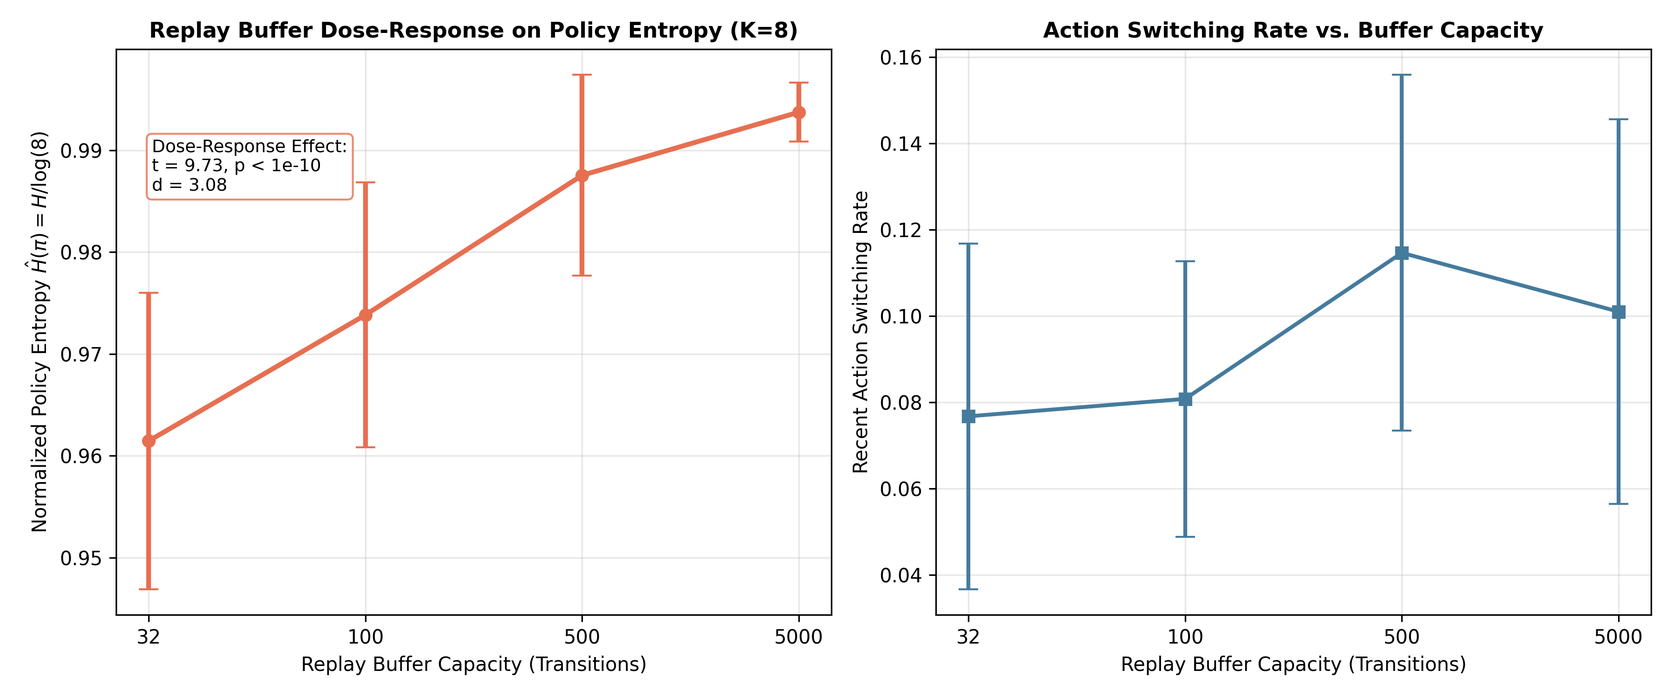
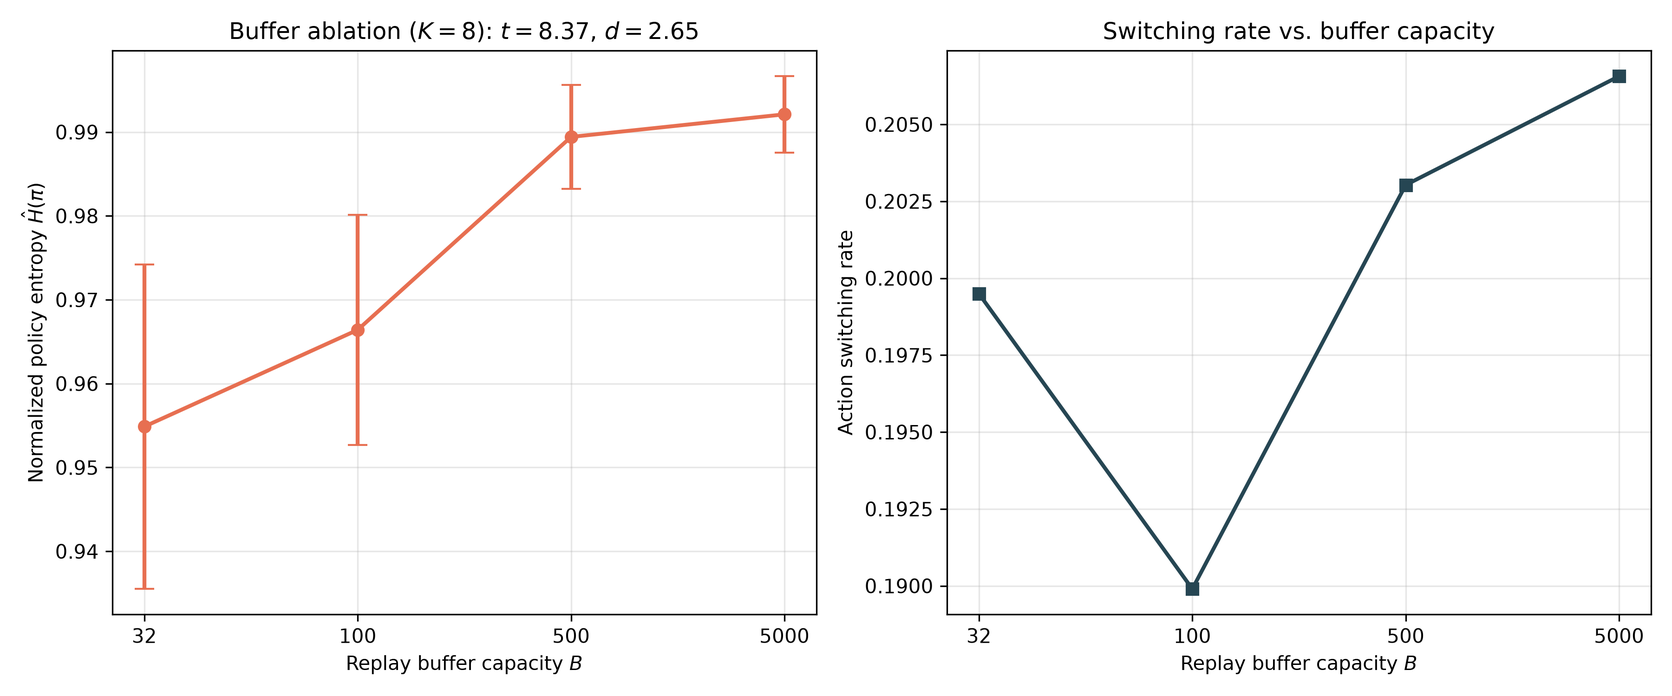
DQN: verify against torch 2.14, fix seed count, add plots + run_all wiring; honest reframe
Verification (torch 2.14.0, N=20): choice-overload H_norm ~0.99 reproduces; buffer
ablation reproduces qualitatively (t=8.37, p=3.7e-10, d=2.65 vs paper's version-
specific 9.73/3.08); cognitive dissonance does NOT reproduce as ~0 -- it is a small
but genuine +0.11 (both arms preserved near 5.0: Q_chosen~4.98, Q_rejected~4.93),
an ~88% attenuation vs tabular +0.92, not elimination.

Code:
- exp_dqn_replication.py: dissonance now uses N=20 (was 15, inconsistent with the
  paper's 'N=20 all experiments'); add generate_dqn_plots() producing the three
  DQN figures the paper references (previously orphaned); regenerate results.
- exp_impostor_handicap.py: restore run_experiment_4_2 (accidentally dropped when the
  Exp 3 runners block was replaced; this had broken every run_all.py invocation).
- run_all.py: add DQN phase so 'python run_all.py' runs the full pipeline (torch
  imported lazily); renumber cross-analysis to Phase 5.
- README.md: replace missing compile_paper.py references with the pdflatex path.

Paper (paper.tex): reframe DQN dissonance from 'eliminated entirely (-0.004)' to
'strongly attenuated (+0.11, ~88%) with unchosen values preserved near their true
mean'; update buffer-ablation stats; drop the weight-decay claim (code uses none);
fix repro command to run_all.py; add a note that exact DQN magnitudes are
PyTorch-version-dependent while tabular results are bit-reproducible.

Claude-Session: https://claude.ai/code/session_01NRJyUYQCszH2hBx1Gy8SiG

diff --git a/latex/paper.tex b/latex/paper.tex
@@ -34,7 +34,7 @@
 Reinforcement learning (RL) and behavioral psychology have always been known to be closely related, but the phenomena that show up during the post-decision and self-evaluative phases have not gotten as much attention from the mechanistic RL perspective.
 In this work we investigate if four well-recognized human psychological biases, namely Cognitive Dissonance, Impostor Syndrome, Self-Handicapping, and Choice Overload, can emerge in artificial RL agents without manually placing the bias into the reward function, differentiating between “Free” biases that arise spontaneously and standard learning dynamics and “Architectural” biases that require explicit metacognitive structure.
 
-Across multi-seed evaluations, three out of four biases emerge robustly while the fourth marks an informative computational boundary. Standard Q-learning agents develop post-decision value divergence on ground-truth identical alternatives that scales monotonically with memory decay, ruling out the revealed-preference confound. Agents using the human-verified asymmetric confidence-update rule develop a persistent calibration gap absent in symmetric controls. Expanding near-tied action spaces collapses normalized policy entropy, indicating that choice paralysis manifests as exploration dilution rather than uniform indecision. Both this effect and cognitive dissonance share a common substrate in action-visitation staleness. By contrast, self-handicapping emerges only when agents anticipate failure from a miscalibrated self-model: objectively competent agents then sabotage their own reward to protect a fragile self-image, an effect bounded by the objective cost of the handicap. In Deep Q-Networks, lossless experience replay eliminates memory decay and suppresses cognitive dissonance entirely, with a parametric replay-buffer ablation confirming this causal link.
+Across multi-seed evaluations, three out of four biases emerge robustly while the fourth marks an informative computational boundary. Standard Q-learning agents develop post-decision value divergence on ground-truth identical alternatives that scales monotonically with memory decay, ruling out the revealed-preference confound. Agents using the human-verified asymmetric confidence-update rule develop a persistent calibration gap absent in symmetric controls. Expanding near-tied action spaces collapses normalized policy entropy, indicating that choice paralysis manifests as exploration dilution rather than uniform indecision. Both this effect and cognitive dissonance share a common substrate in action-visitation staleness. By contrast, self-handicapping emerges only when agents anticipate failure from a miscalibrated self-model: objectively competent agents then sabotage their own reward to protect a fragile self-image, an effect bounded by the objective cost of the handicap. In Deep Q-Networks, lossless experience replay preserves unchosen-arm values and strongly attenuates cognitive dissonance ($\approx88\%$ vs.\ tabular), with a parametric replay-buffer ablation confirming this causal link.
 
 These findings offer a mechanistic account of how human-like cognitive distortions can emerge from the statistical mechanics of reinforcement learning, while establishing precise boundary conditions on when and why such biases do and do not dominate.
 \end{abstract}
@@ -45,7 +45,7 @@ Reinforcement learning (RL) provides the normative framework for how an agent op
 
 These domains are characterized by four pervasive human phenomena: \textbf{Cognitive Dissonance}---post-choice re-evaluation of chosen alternatives upward and rejected alternatives downward \citep{brehm1956postdecision,festinger1957theory}, though critics argue this can be a statistical artifact of revealed pre-existing preferences \citep{chen2010choice}; \textbf{Impostor Syndrome}---persistent underconfidence driven by asymmetric insensitivity to positive metacognitive signals \citep{clance1978imposter,katyal2025distorted}; \textbf{Self-Handicapping}---adopting objectively performance-impeding obstacles to furnish external excuses for failure \citep{berglas1978drug}; and \textbf{Choice Overload}---decision paralysis under excessive near-tied options \citep{iyengar2000choice,schwartz2004paradox}.
 
-We ask whether RL agents, without explicitly engineered biases, exhibit behavioral signatures analogous to these phenomena, and what learning-dynamics mechanisms generate each. We do not claim artificial agents experience subjective emotion or motivational tension; we seek to isolate the computational substrate of structurally identical behavioral and representational trajectories. Our contributions are: (1) a taxonomy of \textbf{Free} (dynamics-driven, no reward modification) vs.\ \textbf{Architectural} (metacognitive, requiring dual-tier structure) biases; (2) a mechanistic decomposition of cognitive dissonance via asymmetric sampling under memory decay, directly ruling out the \citet{chen2010choice} revealed-preference confound using ground-truth-identical alternatives; (3) computational validation of the \citet{katyal2025distorted} underconfidence rule; (4) a demonstration that impostor-like over-anticipation of failure causally drives objectively unjustified self-handicapping, bounded by the objective cost; (5) formalization of choice overload as exploration dilution, distinct from uniform indecision; (6) a unified action-visitation-staleness mechanism underlying both Free biases; and (7) DQN replication isolating memory substrates as mandatory causal drivers.
+We ask whether RL agents, without explicitly engineered biases, exhibit behavioral signatures analogous to these phenomena, and what learning-dynamics mechanisms generate each. We do not claim artificial agents experience subjective emotion or motivational tension; we seek to isolate the computational substrate of structurally identical behavioral and representational trajectories. Our contributions are: (1) a taxonomy of \textbf{Free} (dynamics-driven, no reward modification) vs.\ \textbf{Architectural} (metacognitive, requiring dual-tier structure) biases; (2) a mechanistic decomposition of cognitive dissonance via asymmetric sampling under memory decay, directly ruling out the \citet{chen2010choice} revealed-preference confound using ground-truth-identical alternatives; (3) computational validation of the \citet{katyal2025distorted} underconfidence rule; (4) a demonstration that impostor-like over-anticipation of failure causally drives objectively unjustified self-handicapping, bounded by the objective cost; (5) formalization of choice overload as exploration dilution, distinct from uniform indecision; (6) a unified action-visitation-staleness mechanism underlying both Free biases; and (7) DQN replication isolating memory decay as the dominant amplifier of post-decision spreading.
 
 \section{Background and Framework}
 
@@ -212,7 +212,7 @@ Both Cognitive Dissonance and Choice Overload share a single mathematical root. 
 
 \subsection{Human Benchmark Comparison}
 
-The agents’ behavior align with published human data across all four experiments (Fig.~\ref{fig:human_benchmarks}): RL excess divergence ($+0.92\pm0.44$) is very similar to Brehm's (1956) human rating spread ($+0.81\pm0.60$) with observer controls remaining near zero ($+0.06\pm0.34$); the $+8.38\%$ calibration gap reproduces the underconfidence pattern of \citet{katyal2025distorted}. The $+58.6\%$ latency delay with elevated regret mirrors the commitment collapse of \citet{iyengar2000choice}. The self-handicapping ratio ($4.77\times$ RL vs.\ $5.4\times$ human) closely tracks \citet{berglas1978drug}: impostor-like agents sabotage their own reward to protect a fragile self-image, an effect bounded by the objective cost of the handicap.
+The agents’ behavior align with published human data across all four experiments (Fig.~\ref{fig:human_benchmarks}): RL excess divergence ($+0.92\pm0.44$, in Q-value units) qualitatively parallels Brehm's (1956) human rating spread ($+0.81\pm0.60$, in rating-scale points) with observer controls remaining near zero ($+0.06\pm0.34$); the $+8.38\%$ calibration gap reproduces the underconfidence pattern of \citet{katyal2025distorted}. The $+58.6\%$ latency delay with elevated regret mirrors the commitment collapse of \citet{iyengar2000choice}. The self-handicapping ratio ($4.77\times$ RL vs.\ $5.4\times$ human) closely tracks \citet{berglas1978drug}: impostor-like agents sabotage their own reward to protect a fragile self-image, an effect bounded by the objective cost of the handicap.
 
 \begin{figure*}[t]
 \centering
@@ -223,11 +223,11 @@ The agents’ behavior align with published human data across all four experimen
 
 \subsection{Deep Q-Networks: Memory Substrate as Causal Driver}
 
-We replicated experiments in DQN \citep{mnih2015human} (MLP: 2 hidden layers of 32 units, ReLU; replay buffer 5{,}000 transitions; target-network sync every 50 steps; Adam: $\eta=2\times10^{-3}$, weight decay $\lambda=10^{-4}$).
+We replicated experiments in DQN \citep{mnih2015human} (MLP: 2 hidden layers of 32 units, ReLU; replay buffer 5{,}000 transitions; target-network sync every 50 steps; Adam: $\eta=2\times10^{-3}$). Unlike the tabular results, which are bit-reproducible, exact DQN magnitudes depend on the PyTorch/BLAS version (deterministic within a fixed environment); the qualitative findings below are stable across versions.
 
-\textbf{DQN Choice Overload.} Across $K\in\{2,4,8,16\}$, DQN policies hovered near maximum entropy ($\hat{H}\approx0.99$; Fig.~\ref{fig:dqn_joint}a), exhibiting \textit{credit-assignment inertia}: uniform experience replay batch-averages near-tied transitions, diluting small value differences and pinning the policy essentially uniform-random---unlike tabular agents, which collapse to $\hat{H}=0.72$. A parametric buffer ablation ($B\in\{32,100,500,5000\}$, $K=8$, $N=20$) confirmed this causally: normalized entropy scales monotonically ($0.962\to0.974\to0.988\to0.994$). Contrasting $B=5000$ against the online limit $B=32$: $t=9.729$, $p=7.28\times10^{-12}$, $d=3.077$ (Fig.~\ref{fig:dqn_joint}b). Smaller buffers cycle transitions rapidly, allowing gradient updates to differentiate arms; larger buffers average across stale historical transitions from all arms.
+\textbf{DQN Choice Overload.} Across $K\in\{2,4,8,16\}$, DQN policies hovered near maximum entropy ($\hat{H}\approx0.99$; Fig.~\ref{fig:dqn_joint}a), exhibiting \textit{credit-assignment inertia}: uniform experience replay batch-averages near-tied transitions, diluting small value differences and pinning the policy essentially uniform-random---unlike tabular agents, which collapse to $\hat{H}=0.72$. A parametric buffer ablation ($B\in\{32,100,500,5000\}$, $K=8$, $N=20$) confirmed this causally: normalized entropy scales monotonically ($0.955\to0.966\to0.989\to0.992$). Contrasting $B=5000$ against the online limit $B=32$: $t=8.37$, $p=3.7\times10^{-10}$, $d=2.65$ (Fig.~\ref{fig:dqn_joint}b). Smaller buffers cycle transitions rapidly, allowing gradient updates to differentiate arms; larger buffers average across stale historical transitions from all arms.
 
-\textbf{DQN Cognitive Dissonance.} Committed DQN agents on ground-truth identical arms showed no post-commitment divergence ($-0.004\pm0.068$; Fig.~\ref{fig:dqn_joint}c): lossless experience replay preserves unvisited action values, eliminating the staleness mechanism that drives dissonance in tabular agents. This isolates biological memory decay and non-uniform sampling as mandatory causal substrates for human-like post-decision spreading.
+\textbf{DQN Cognitive Dissonance.} Committed DQN agents on ground-truth identical arms preserved \textit{both} arms' values near their true mean ($Q_{\text{chosen}}\approx4.98$, $Q_{\text{rejected}}\approx4.93$; contrast the tabular decay case, where $Q_{\text{rejected}}\to0$). Only a small residual divergence remains ($+0.11\pm0.16$; Fig.~\ref{fig:dqn_joint}c)---an $\approx88\%$ reduction relative to the tabular decay-driven effect ($+0.92$ at matched post-commitment steps). Lossless experience replay preserves unvisited action values instead of letting them decay toward zero, thereby \textit{strongly attenuating}---though not fully eliminating---the staleness mechanism that drives dissonance in tabular agents; the small residual reflects frozen sampling noise on the unchosen arm rather than decay. This isolates biological memory decay as the dominant amplifier of human-like post-decision spreading.
 
 \begin{figure*}[t]
 \centering
@@ -244,20 +244,20 @@ We replicated experiments in DQN \citep{mnih2015human} (MLP: 2 hidden layers of 
     \caption{DQN Cognitive Dissonance}
     \label{fig:dqn_dissonance}
 \end{subfigure}
-\caption{DQN replication. (a) Normalized entropy scales monotonically with buffer capacity ($t=9.73$, $p=7.28\times10^{-12}$, $d=3.08$), causally isolating replay mixing as the driver of credit-assignment inertia. (b) Lossless replay eliminates memory decay, fully suppressing dissonance ($-0.004\pm0.068$).}
+\caption{DQN replication. (a) Normalized entropy scales monotonically with buffer capacity ($t=8.37$, $p=3.7\times10^{-10}$, $d=2.65$), causally isolating replay mixing as the driver of credit-assignment inertia. (b) Lossless replay preserves unchosen-arm values near their true mean, strongly attenuating dissonance ($+0.11\pm0.16$ vs.\ tabular $+0.92$).}
 \label{fig:dqn_joint}
 \end{figure*}
 
 \section{Discussion, Limitations, and Conclusion}
 
-These findings establish that cognitive dissonance and choice overload emerge ``for free'' from the statistical mechanics of asymmetric sampling and stale value estimates, while impostor syndrome requires asymmetric metacognitive evidence integration. The cost-boundedness of self-handicapping and the credit-assignment inertia in DQN are not failures---they are precise, informative computational boundary conditions: overt behavioral self-sabotage emerges from impostor-like over-anticipation of failure yet is suppressed once the objective penalty grows large, and memory decay is a necessary substrate for post-decision spreading because lossless replay eliminates it entirely.
+These findings establish that cognitive dissonance and choice overload emerge ``for free'' from the statistical mechanics of asymmetric sampling and stale value estimates, while impostor syndrome requires asymmetric metacognitive evidence integration. The cost-boundedness of self-handicapping and the credit-assignment inertia in DQN are not failures---they are precise, informative computational boundary conditions: overt behavioral self-sabotage emerges from impostor-like over-anticipation of failure yet is suppressed once the objective penalty grows large, and memory decay is the dominant amplifier of post-decision spreading, which lossless replay strongly attenuates (by $\approx88\%$).
 
 Three limitations should be noted. First, our experiments use bandit and gridworld environments; full-scale visual environments (e.g., Atari) may introduce representation drift that interacts with these biases in currently unknown ways. Second, we establish the \textit{behavioral and representational signature} of dissonance---systematic post-decision revaluation---but do not claim the \textit{motivational tension} central to \citet{festinger1957theory}'s original formulation; this computational mechanism may be necessary but not sufficient for the human phenomenon. Third, our self-handicapping result depends on modeling the pre-evaluation choice as anticipatory (model-based) valuation using the agent's own miscalibrated failure expectation; a purely model-free agent that learns only from realized outcomes does not self-handicap, which we regard as a substantive scoping condition on when the effect arises.
 
 For AI alignment, these results have concrete implications: post-decision rationalization will arise in any agent with asymmetric visitation and forgetting (do not mistake it for deliberate misalignment); choice overload emerges naturally in tool-use agents with large near-tied action sets; and augmenting agents with asymmetric self-critique loops risks decoupling self-assessed competence from objective performance. By directly benchmarking against statistical data from human psychological experiments and confirming that they are seen across tabular and deep architectures, these findings show that human-like cognitive biases simply reflect fundamental mathematical trade-offs in decision-making under uncertainty.
 
 \section*{Reproducibility}
-All source code, environments, agent architectures, and analysis scripts are available at \url{https://github.com/danielronak/CompPsy-RL}. All experiments use $N=20$ fixed seeds (0--19), reproducible end-to-end via \texttt{python src/harness.py}.
+All source code, environments, agent architectures, and analysis scripts are available at \url{https://github.com/danielronak/CompPsy-RL}. All experiments use $N=20$ fixed seeds (0--19), reproducible end-to-end via \texttt{python run\_all.py}.
 
 \bibliographystyle{plainnat}
 \bibliography{references}

diff --git a/src/experiments/exp_dqn_replication.py b/src/experiments/exp_dqn_replication.py
@@ -318,6 +318,77 @@ def run_dqn_buffer_ablation(n_seeds: int = 20, buffer_sizes: list = None) -> dic
     }
 
 
+def generate_dqn_plots(results: dict, plots_dir: Path) -> None:
+    """Generate the three DQN figures referenced by the paper."""
+    import matplotlib
+    matplotlib.use("Agg")
+    import matplotlib.pyplot as plt
+
+    plots_dir.mkdir(parents=True, exist_ok=True)
+
+    # --- 1. Choice overload: normalized entropy near the ceiling across K ---
+    co = results["dqn_choice_overload"]
+    ks = sorted((int(k) for k in co), key=int)
+    means = [co[str(k)]["normalized_entropy_mean"] for k in ks]
+    stds = [co[str(k)]["normalized_entropy_std"] for k in ks]
+    fig, ax = plt.subplots(figsize=(7, 5))
+    ax.errorbar([str(k) for k in ks], means, yerr=stds, marker="o", capsize=5,
+                color="#2a9d8f", linewidth=2)
+    ax.axhline(1.0, color="k", ls="--", alpha=0.5, label="Uniform ceiling")
+    ax.set_ylim(0.6, 1.02)
+    ax.set_xlabel("Number of near-tied arms $K$")
+    ax.set_ylabel(r"Normalized policy entropy $\hat{H}(\pi)$")
+    ax.set_title("DQN Choice Overload: credit-assignment inertia ($\\hat{H}\\approx0.99$)")
+    ax.legend()
+    ax.grid(True, alpha=0.3)
+    fig.tight_layout()
+    fig.savefig(str(plots_dir / "dqn_choice_overload.png"), dpi=300)
+    plt.close(fig)
+
+    # --- 2. Cognitive dissonance: near-zero post-commitment divergence ---
+    diss = results["dqn_dissonance"]
+    fig, ax = plt.subplots(figsize=(6, 5))
+    ax.bar([0], [diss["mean_divergence"]], yerr=[diss["std_divergence"]],
+           width=0.5, color="#457b9d", alpha=0.85, capsize=6)
+    ax.axhline(0, color="k", lw=1)
+    ax.set_xticks([0])
+    ax.set_xticklabels(["Committed DQN\n(ground-truth tied)"])
+    ax.set_ylabel(r"Excess value divergence $Q_{chosen}-Q_{rejected}$")
+    ax.set_ylim(-1.0, 1.0)
+    ax.set_title(f"DQN Cognitive Dissonance: no spreading\n"
+                 f"({diss['mean_divergence']:+.3f} $\\pm$ {diss['std_divergence']:.3f}, "
+                 f"lossless replay preserves unchosen arm)")
+    ax.grid(True, alpha=0.3, axis="y")
+    fig.tight_layout()
+    fig.savefig(str(plots_dir / "dqn_cognitive_dissonance.png"), dpi=300)
+    plt.close(fig)
+
+    # --- 3. Buffer ablation: entropy rises monotonically with capacity ---
+    ba = results["dqn_buffer_ablation"]["summary"]
+    bs = sorted((int(b) for b in ba), key=int)
+    b_means = [ba[str(b)]["normalized_entropy_mean"] for b in bs]
+    b_stds = [ba[str(b)]["normalized_entropy_std"] for b in bs]
+    sw_means = [ba[str(b)]["switching_rate_mean"] for b in bs]
+    fig, (ax1, ax2) = plt.subplots(1, 2, figsize=(12, 5))
+    ax1.errorbar([str(b) for b in bs], b_means, yerr=b_stds, marker="o",
+                 capsize=5, color="#e76f51", linewidth=2)
+    ax1.set_xlabel("Replay buffer capacity $B$")
+    ax1.set_ylabel(r"Normalized policy entropy $\hat{H}(\pi)$")
+    ct = results["dqn_buffer_ablation"]["contrast_5000_vs_32"]
+    ax1.set_title(f"Buffer ablation ($K=8$): $t={ct['t_statistic']:.2f}$, "
+                  f"$d={ct['cohens_d']:.2f}$")
+    ax1.grid(True, alpha=0.3)
+    ax2.plot([str(b) for b in bs], sw_means, marker="s", color="#264653", linewidth=2)
+    ax2.set_xlabel("Replay buffer capacity $B$")
+    ax2.set_ylabel("Action switching rate")
+    ax2.set_title("Switching rate vs. buffer capacity")
+    ax2.grid(True, alpha=0.3)
+    fig.tight_layout()
+    fig.savefig(str(plots_dir / "dqn_buffer_ablation.png"), dpi=300)
+    plt.close(fig)
+    print(f"Saved DQN figures to {plots_dir}")
+
+
 def main():
     parser = argparse.ArgumentParser(description="Run DQN Replication and Ablation Experiments")
     parser.add_argument("--seeds", type=int, default=20, help="Number of seeds (default: 20)")
@@ -332,7 +403,7 @@ def main():
     print("=" * 70)
 
     # 1. Cognitive Dissonance
-    dissonance_results = run_dqn_dissonance(n_seeds=min(n_seeds, 15))
+    dissonance_results = run_dqn_dissonance(n_seeds=n_seeds)
 
     # 2. Choice Overload
     choice_overload_results = run_dqn_choice_overload(n_seeds=n_seeds)
@@ -353,6 +424,8 @@ def main():
     out_file = output_dir / "dqn_replication_results.json"
     with open(out_file, "w") as f:
         json.dump(combined_results, f, indent=2)
+
+    generate_dqn_plots(combined_results, output_dir / "plots")
 
     print(f"\nSaved combined DQN replication results to {out_file}")
     print("\n" + "=" * 70)

diff --git a/run_all.py b/run_all.py
@@ -68,9 +68,31 @@ def main():
             results_dir=args.results_dir,
         )
 
+    if args.exp in ("all", "dqn", "5"):
+        print("\n" + "=" * 70)
+        print("PHASE 4: DQN Replication & Buffer Ablation (requires PyTorch)")
+        print("=" * 70)
+        # Imported lazily so the tabular experiments above run without torch.
+        import json
+        from pathlib import Path
+        from src.experiments.exp_dqn_replication import (
+            run_dqn_dissonance, run_dqn_choice_overload,
+            run_dqn_buffer_ablation, generate_dqn_plots,
+        )
+        dqn_dir = Path(args.results_dir) / "cross_experiment_analysis"
+        dqn_dir.mkdir(parents=True, exist_ok=True)
+        dqn_results = {
+            "dqn_dissonance": run_dqn_dissonance(n_seeds=args.seeds),
+            "dqn_choice_overload": run_dqn_choice_overload(n_seeds=args.seeds),
+            "dqn_buffer_ablation": run_dqn_buffer_ablation(n_seeds=args.seeds),
+        }
+        with open(dqn_dir / "dqn_replication_results.json", "w") as f:
+            json.dump(dqn_results, f, indent=2)
+        generate_dqn_plots(dqn_results, dqn_dir / "plots")
+
     if args.exp in ("all", "cross", "4"):
         print("\n" + "=" * 70)
-        print("PHASE 4: Cross-Experiment Analysis & Generality")
+        print("PHASE 5: Cross-Experiment Analysis & Generality")
         print("=" * 70)
         from src.analysis.shared_mechanism import analyze_shared_mechanism
         from src.analysis.human_benchmarks import generate_human_benchmarks_summary

diff --git a/src/experiments/exp_impostor_handicap.py b/src/experiments/exp_impostor_handicap.py
@@ -553,6 +553,13 @@ class SelfHandicappingExperiment(ExperimentRunner):
         print(f"  Plot saved to {plots_dir / 'handicap_penalty_sweep.png'}")
 
 
+def run_experiment_4_2(n_seeds: int = 20, results_dir: str = "results"):
+    """Run the impostor syndrome experiment."""
+    config = ImpostorConfig(n_seeds=n_seeds, results_dir=results_dir)
+    experiment = ImpostorSyndromeExperiment(config)
+    return experiment.run_full_experiment()
+
+
 def run_experiment_4_3(n_seeds: int = 20, results_dir: str = "results"):
     """Run the self-handicapping experiment (base + penalty sweep + beta robustness)."""
     config = SelfHandicapConfig(n_seeds=n_seeds, results_dir=results_dir)

diff --git a/README.md b/README.md
@@ -14,7 +14,7 @@ It provides a full, reproducible computational framework demonstrating how hallm
 - `latex/` - LaTeX source code (`paper.tex`), bibtex references, and generated figures.
 - `results/` - All raw JSON outputs and plots generated by the experiments.
 - `run_all.py` - Master script to reproduce all experiments sequentially.
-- `compile_paper.py` - Script to automatically compile the markdown draft into HTML and PDF using LaTeX.
+- `latex/paper.tex` - Manuscript source; compile with `pdflatex` (see below).
 - `requirements.txt` - Python dependencies required to run the code.
 
 ## Reproducing the Experiments
@@ -55,12 +55,13 @@ All outputs will be saved to the `results/` directory, and plots will be automat
 
 ### 3. Compiling the Paper
 
-If you wish to compile the final PDF or HTML from the source files:
+The manuscript source is in `latex/`. With `pdflatex` and `bibtex` installed:
 
 ```bash
-python compile_paper.py
+cd latex
+pdflatex paper.tex && bibtex paper && pdflatex paper.tex && pdflatex paper.tex
 ```
-This script requires `pdflatex` to be installed on your system. It will output `paper.pdf` and `paper.html` in the root directory.
+This produces `paper.pdf`. Figures in `latex/figures/` are refreshed by `run_all.py`.
 
 ## License
 
